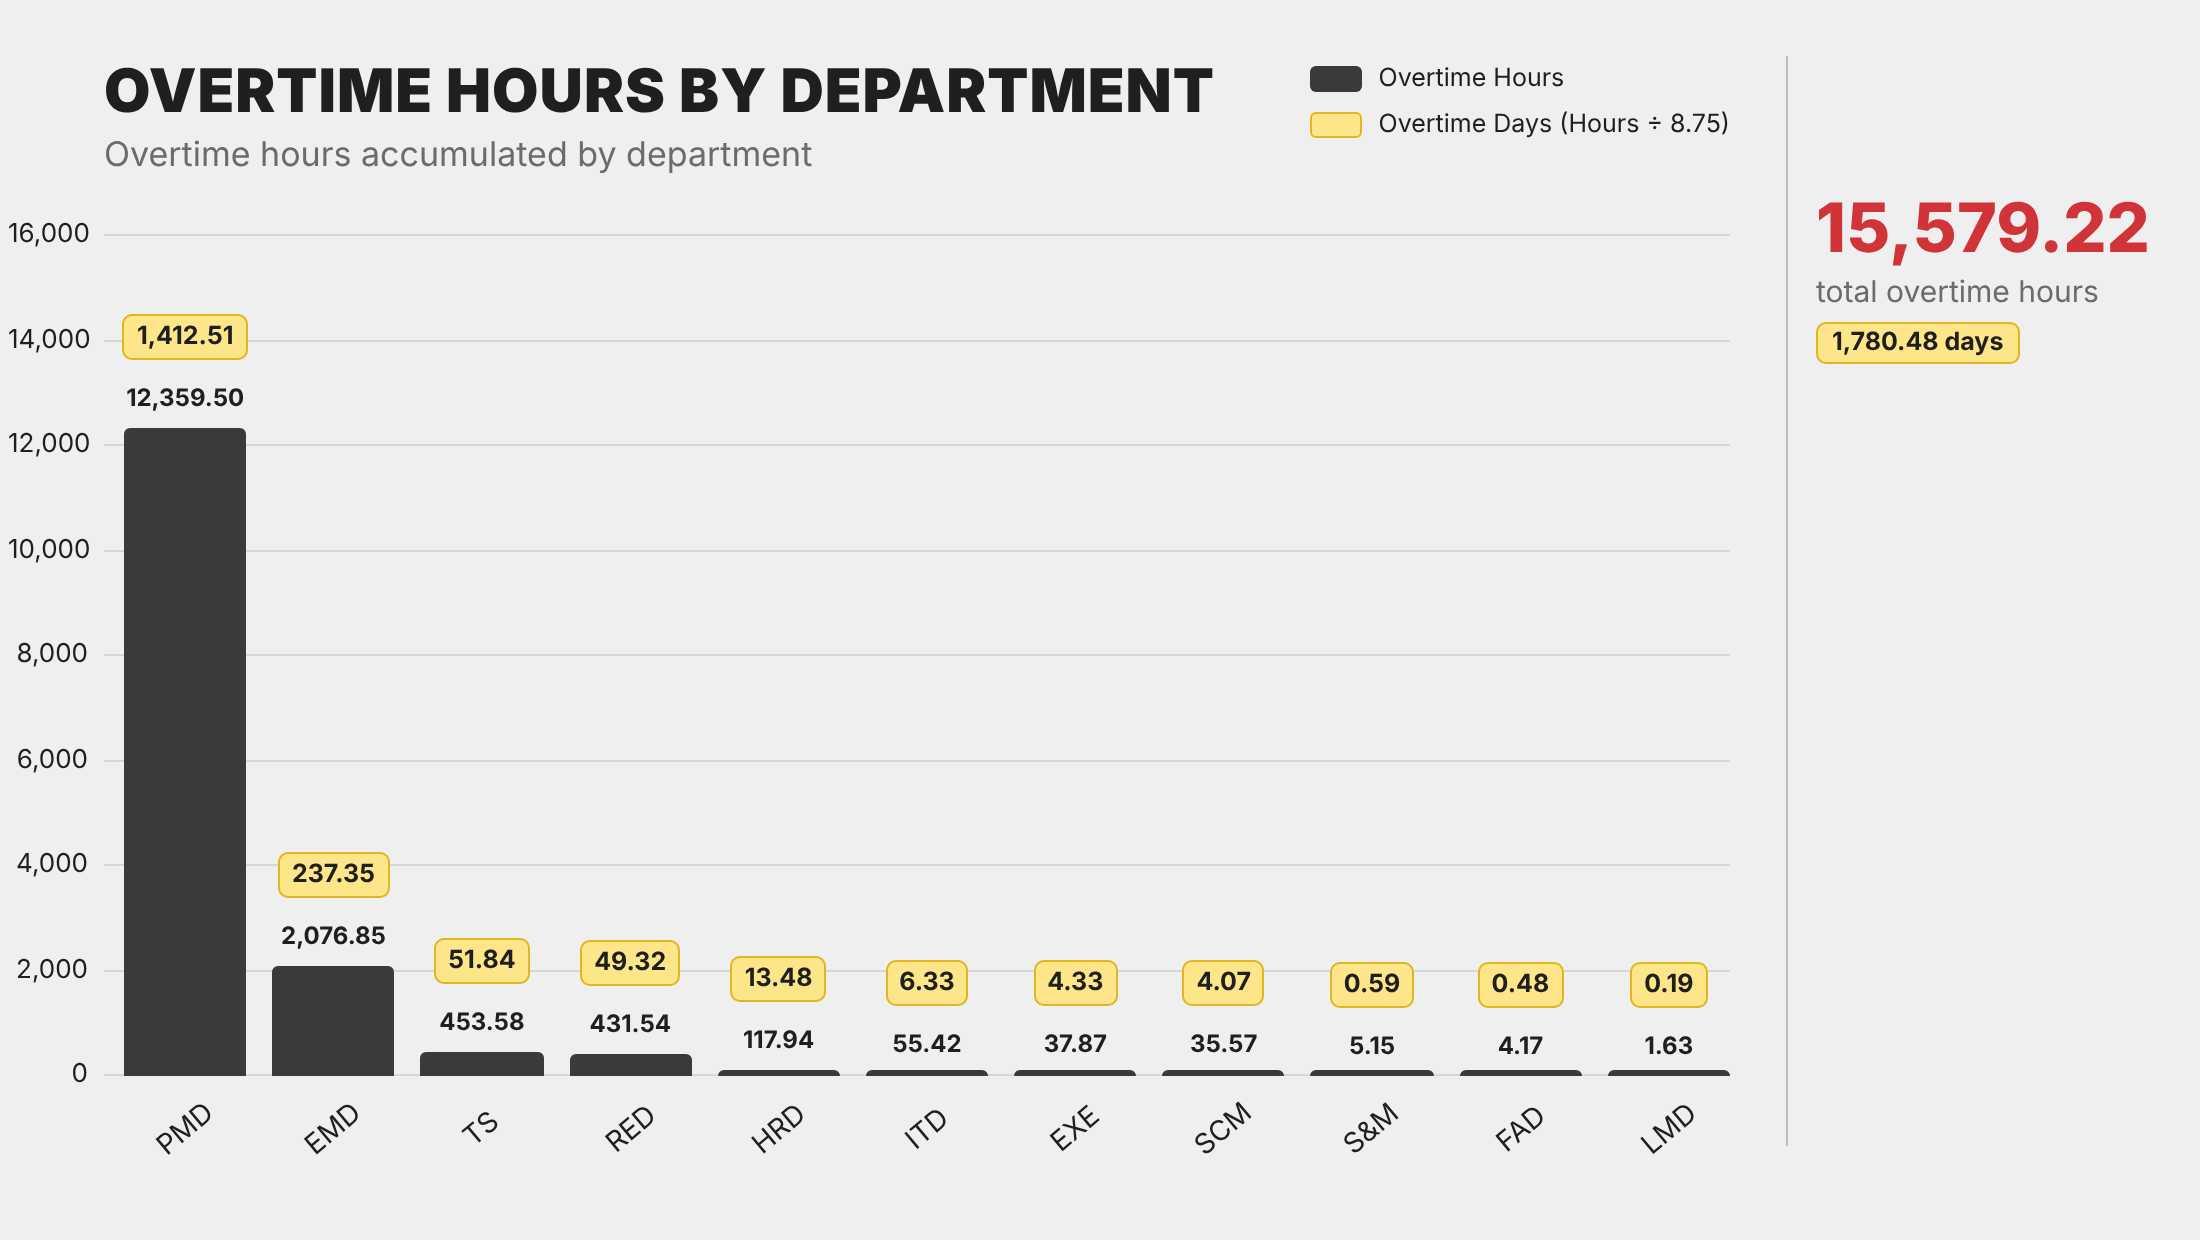
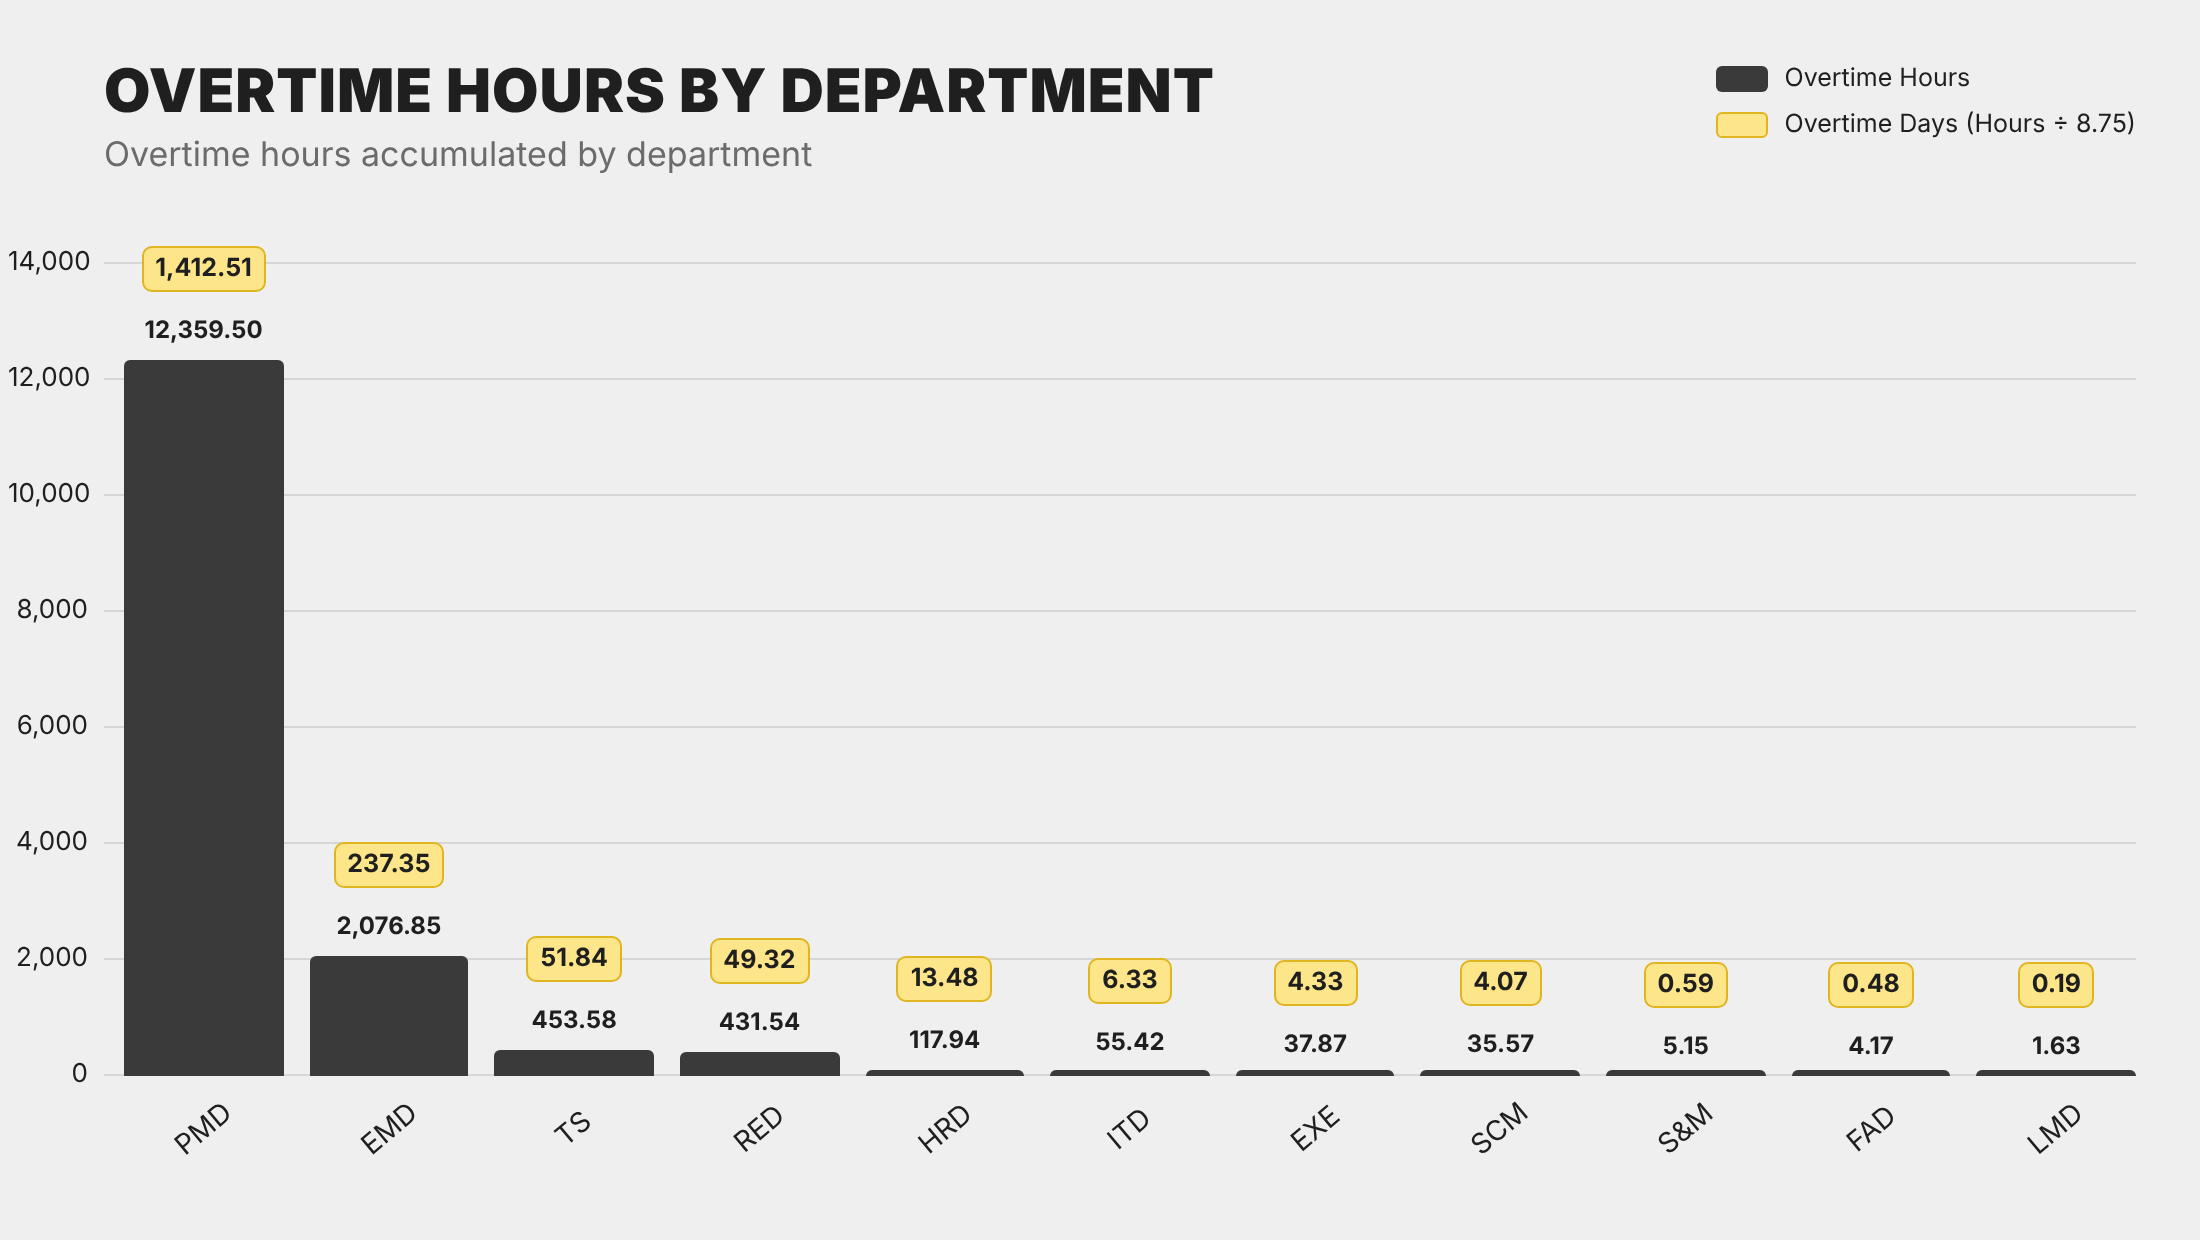
Overtime chart: drop total panel, widen graph, top value 14,500
Claude-Session: https://claude.ai/code/session_015Kv3omTsNtVasEH23pCyJK

diff --git a/overtime-hours-by-department.html b/overtime-hours-by-department.html
@@ -70,10 +70,9 @@
     </div>
     <div class="xl" id="xl"></div>
   </div>
-  <aside id="kpis"></aside>
 </div>
 <script>
-  const HOURS_PER_DAY = 8.75, MAX = 16000;
+  const HOURS_PER_DAY = 8.75, MAX = 14500;
   const data = [
     ["PMD",12359.50],["EMD",2076.85],["TS",453.58],["RED",431.54],["HRD",117.94],["ITD",55.42],
     ["EXE",37.87],["SCM",35.57],["S&M",5.15],["FAD",4.17],["LMD",1.63]
@@ -96,11 +95,6 @@
     xl.insertAdjacentHTML("beforeend", `<div>${d}</div>`);
   });
 
-  const total = data.reduce((a,[,h]) => a + h, 0);
-  const kpis = [[fmt(total),"total overtime hours",total,true]];
-  document.getElementById("kpis").innerHTML = kpis.map(([v,l,h,red]) =>
-    `<div class="kpi"><div class="v ${red?"red":""}">${v}</div><div class="l">${l}</div>
-     <div class="d">${days(h)} days</div></div>`).join("");
 </script>
 </body>
 </html>
